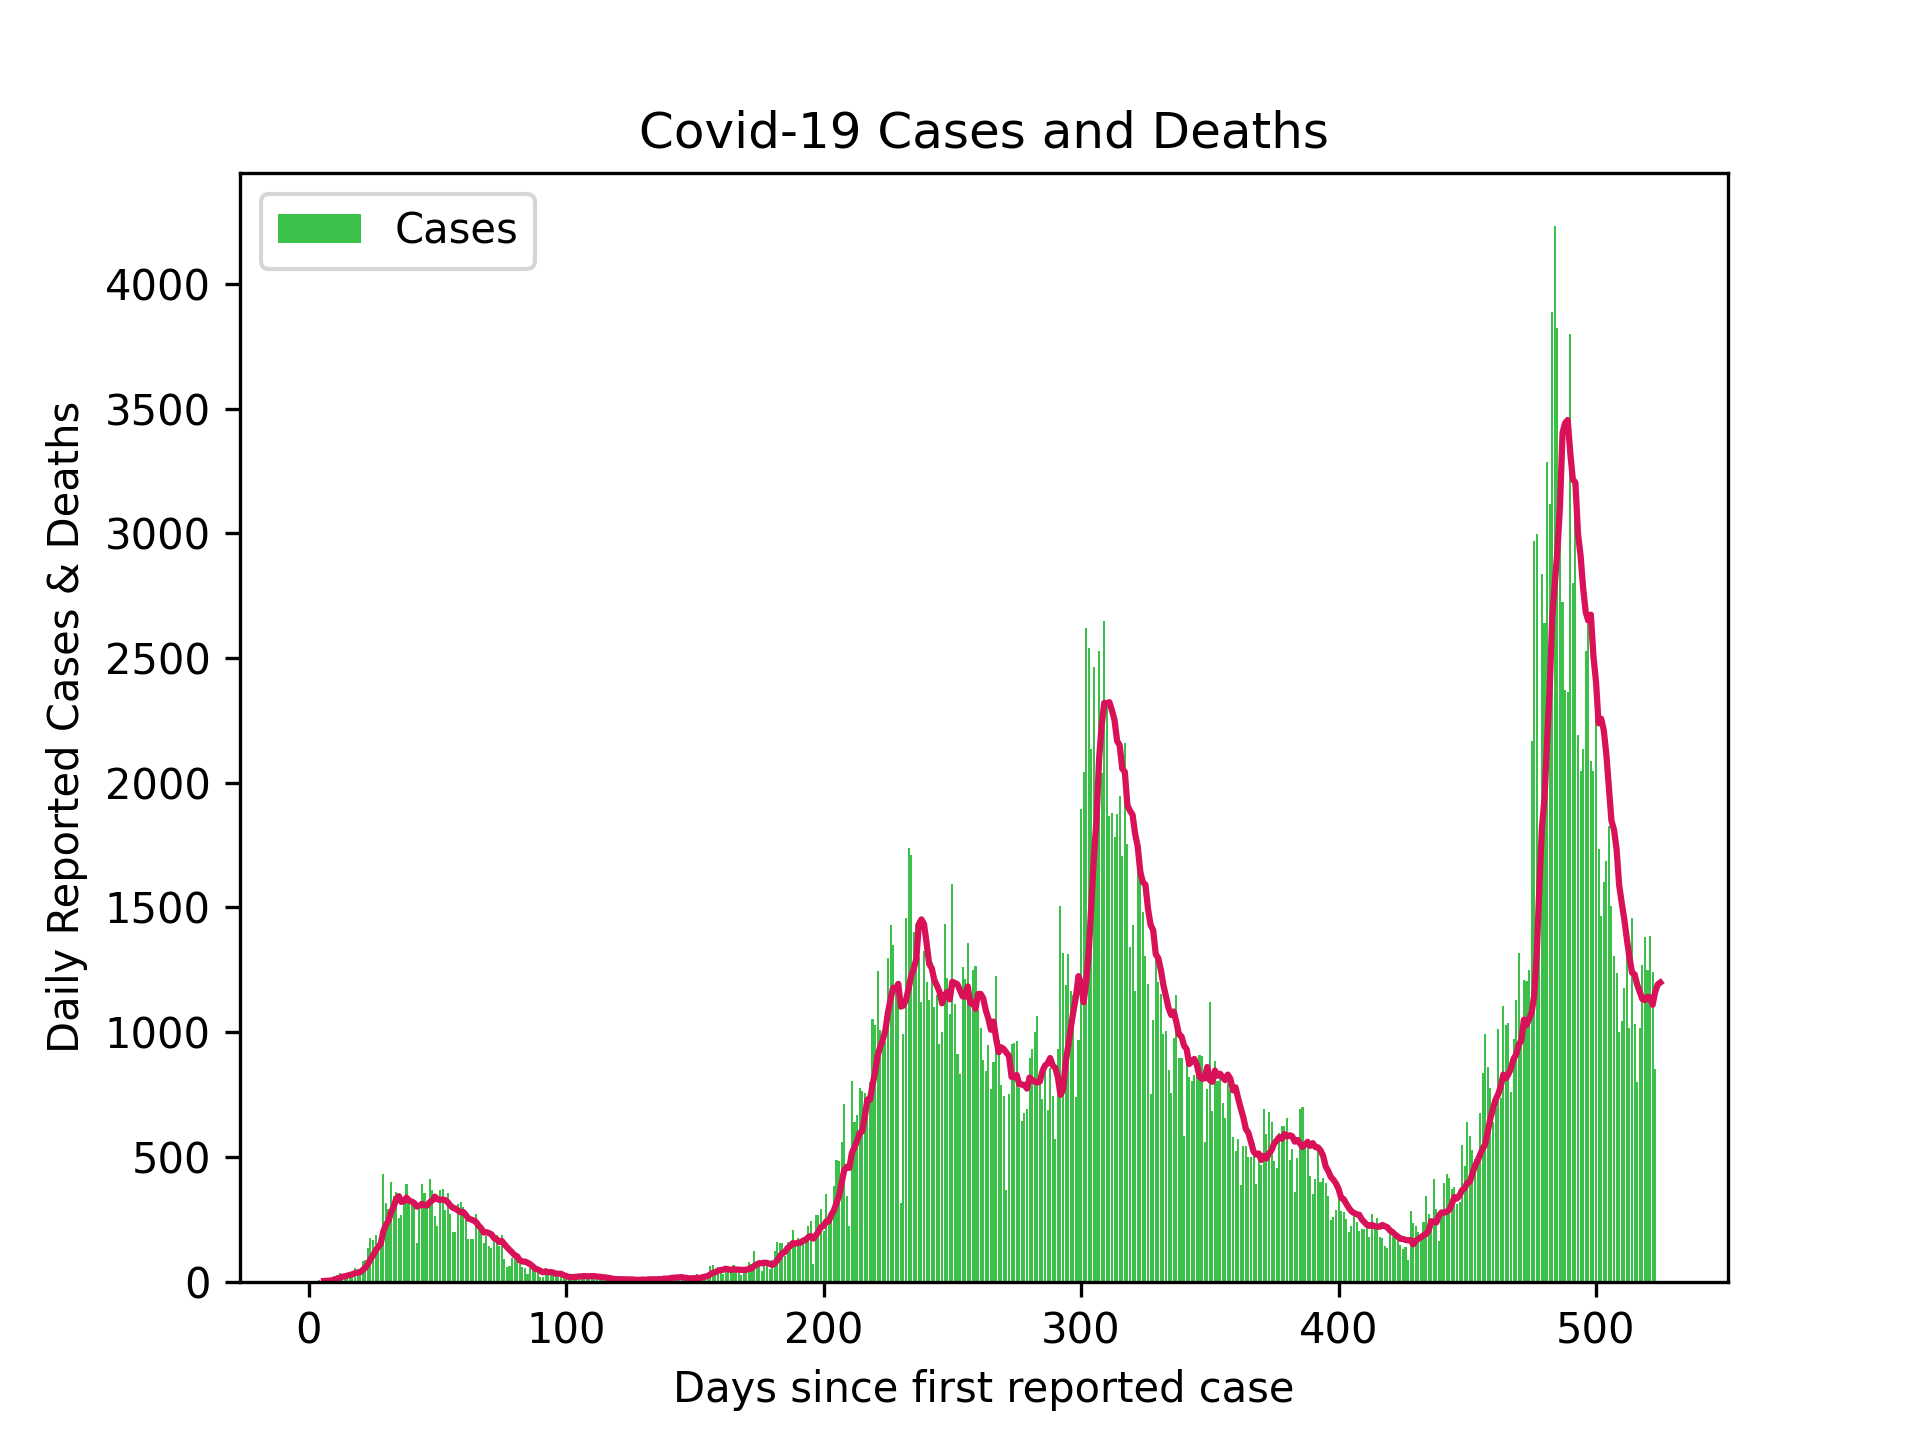
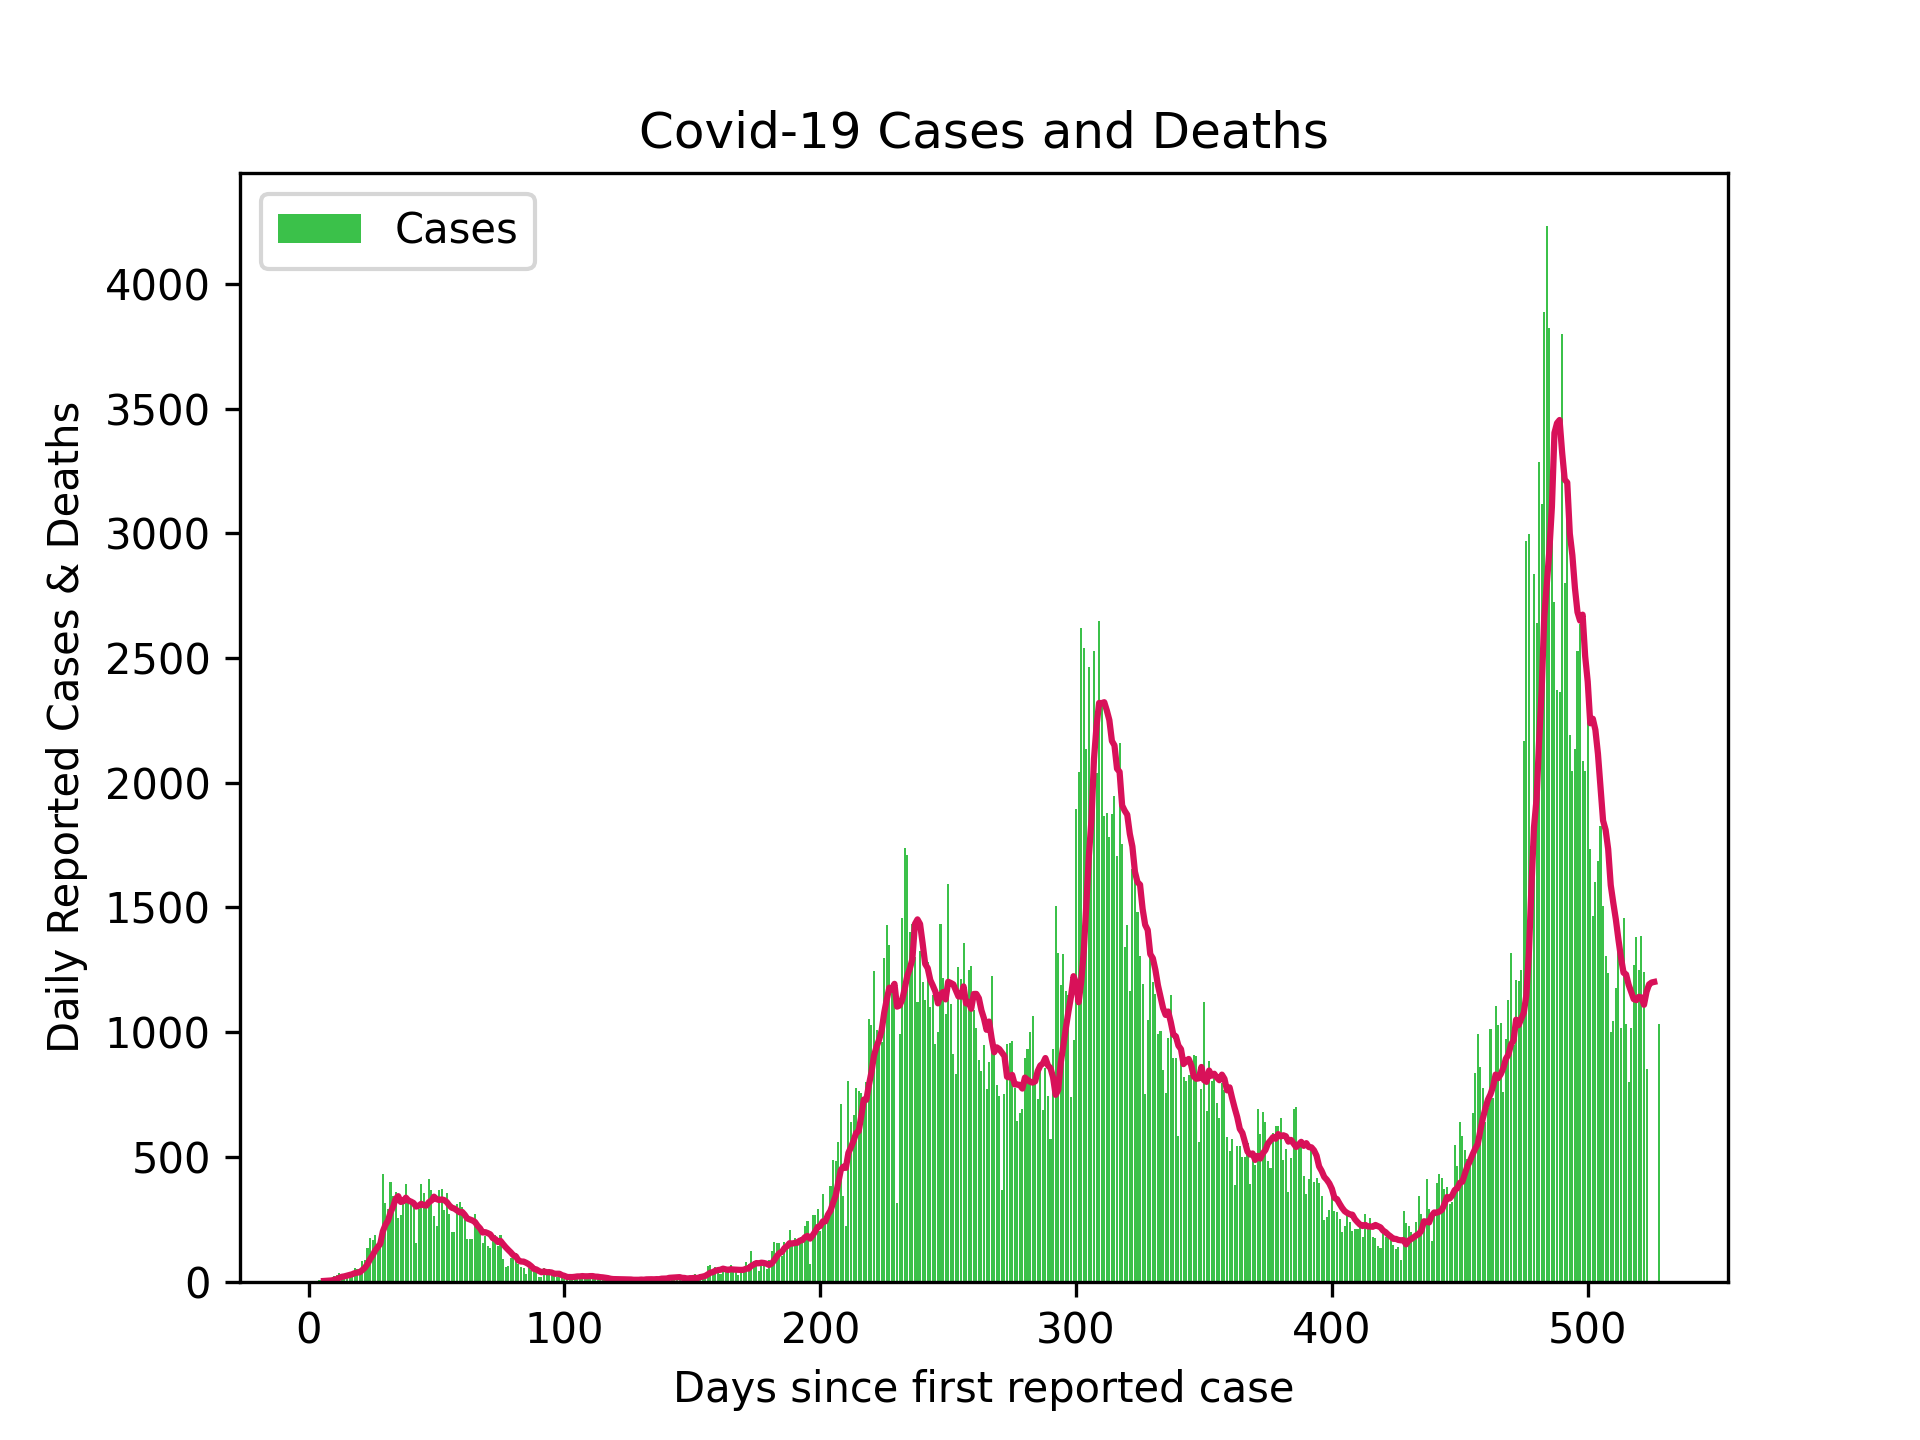
Updated Scottish cases 10/08/21

Changed region(s): [[0.375, 0.2188, 0.875, 0.9375], [0.1875, 0.8125, 0.2812, 0.9062], [0.2812, 0.9062, 0.3125, 0.9375]]

diff --git a/README.md b/README.md
@@ -1,4 +1,4 @@
-# Scottish Cases 09/08/21
+# Scottish Cases 10/08/21
 
 ![alt](scottish_cases.png)
 
